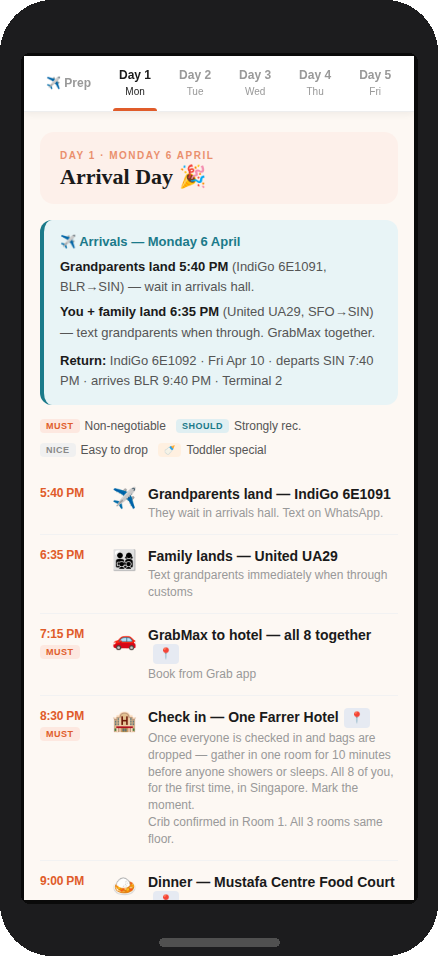
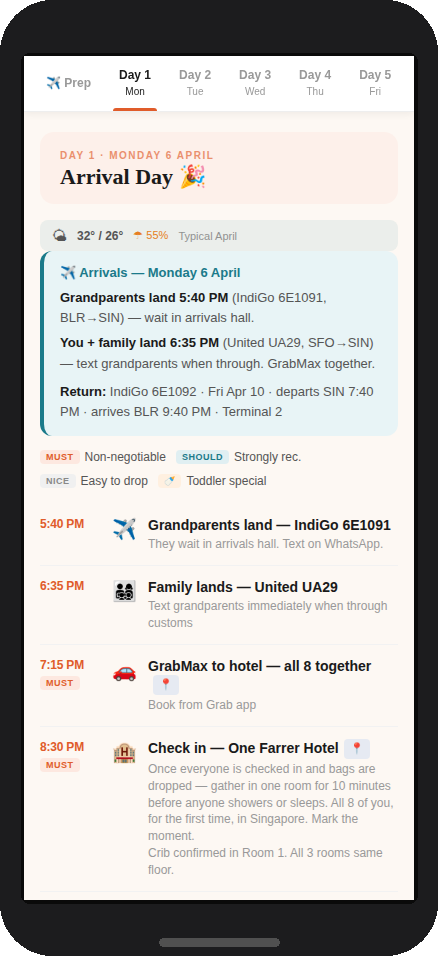
add weather data

Changed region(s): [[0.089, 0.2123, 0.9201, 0.9404], [0.089, 0.91, 0.2078, 0.9404]]

diff --git a/full.html b/full.html
@@ -324,6 +324,7 @@
 <!-- ═══ DAY 1 ═══ -->
 <div id="d1" class="section d1">
   <div class="day-hdr"><div class="day-lbl">Day 1 · Monday 6 April</div><div class="day-title">Arrival Day 🎉</div></div>
+  <div data-wx-day="d1" style="display:flex;align-items:center;gap:10px;background:rgba(27,122,138,0.08);border-radius:8px;padding:7px 12px;margin:8px 0 0;font-size:12px;color:#555;min-height:30px;"><span style="font-size:15px;">🌤</span><span style="font-size:11px;opacity:0.5;">Loading…</span></div>
   <div class="card card-teal">
     <div class="card-title">✈ Arrivals — Monday 6 April</div>
     <p><strong>Grandparents land 5:40 PM</strong> (IndiGo 6E1091, BLR→SIN) — wait in arrivals hall.</p>
@@ -347,6 +348,7 @@
 <!-- ═══ DAY 2 ═══ -->
 <div id="d2" class="section d2">
   <div class="day-hdr"><div class="day-lbl">Day 2 · Tuesday 7 April</div><div class="day-title">Little India + Kampong Glam 🛕</div></div>
+  <div data-wx-day="d2" style="display:flex;align-items:center;gap:10px;background:rgba(27,122,138,0.08);border-radius:8px;padding:7px 12px;margin:8px 0 0;font-size:12px;color:#555;min-height:30px;"><span style="font-size:15px;">🌤</span><span style="font-size:11px;opacity:0.5;">Loading…</span></div>
   <div class="veg-sticky">🌿 Vegetarian only until 1:30 PM — temple 9:45 AM + Sultan Mosque 1:30 PM</div>
   <div class="slot"><div class="slot-left"><div class="slot-time">8:00 AM</div><div class="tag tag-must">Must</div></div><div class="slot-icon">☕</div><div class="slot-body" data-dishes="tekka_breakfast"><div class="slot-title">Tekka Centre breakfast<a href="https://maps.google.com/?q=Tekka+Centre+Little+India+Singapore" target="_blank" rel="noopener" class="ml">📍</a></div><div class="slot-note">Idli, dosa, pongal, filter coffee 🌿 · 💛 <strong>Telugu moment:</strong> Ask the grandparents to name each dish in Telugu for the kids — idli, dosa, pongal. Make the 4yr old repeat it. This is their food, their expertise, let them own this moment.</div></div></div>
   <div class="slot"><div class="slot-left"><div class="slot-time">9:15 AM</div><div class="tag tag-must">Must</div></div><div class="slot-icon">🥚</div><div class="slot-body" data-dishes="kopitiam_drinks"><div class="slot-title">Kaya toast + soft eggs + Milo Dinosaur + teh halia<a href="https://maps.google.com/?q=Serangoon+Road+kopitiam+Singapore" target="_blank" rel="noopener" class="ml">📍</a></div><div class="slot-note">Serangoon Rd kopitiam 🌿 · 👶 Toddler: <strong>plain toast + soft-boiled egg only</strong> — kaya has added sugar. Ask "plain toast, no kaya" explicitly.</div></div></div>
@@ -374,6 +376,7 @@
 <!-- ═══ DAY 3 ═══ -->
 <div id="d3" class="section d3">
   <div class="day-hdr"><div class="day-lbl">Day 3 · Wednesday 8 April</div><div class="day-title">Chinatown + MOIC Split + Marina Bay 🦁</div></div>
+  <div data-wx-day="d3" style="display:flex;align-items:center;gap:10px;background:rgba(27,122,138,0.08);border-radius:8px;padding:7px 12px;margin:8px 0 0;font-size:12px;color:#555;min-height:30px;"><span style="font-size:15px;">🌤</span><span style="font-size:11px;opacity:0.5;">Loading…</span></div>
   <div class="card card-orange" style="margin:0 0 10px;"><div class="card-title">⏱ Longest day of the trip — starts at 8:30 AM, ends at 10 PM</div><p>This 13+ hour day falls on Night 2 jet lag — kids likely had a broken night. If the morning is slow, push Maxwell to 8:45 AM, you have buffer. The 5 PM cold drink stop at Marina Bay Sands is the only scheduled rest — protect it. Grandparents: feel free to sit anywhere cool and rejoin at the next slot if energy is low.</p></div>
   <div class="veg-sticky">🌿 Vegetarian only for breakfast — temples 10:00 + 10:30 AM · full menu opens after 11 AM</div>
   <div class="slot"><div class="slot-left"><div class="slot-time">8:15 AM</div></div><div class="slot-icon">🚇</div><div class="slot-body"><div class="slot-title">MRT: Farrer Park (NE8) → Chinatown (NE4)</div><div class="slot-note">Purple line · direct · 10 min</div></div></div>
@@ -427,6 +430,7 @@
 <!-- ═══ DAY 4 ═══ -->
 <div id="d4" class="section d4">
   <div class="day-hdr"><div class="day-lbl">Day 4 · Thursday 9 April</div><div class="day-title">Sentosa — Full Day 🐠🎡</div></div>
+  <div data-wx-day="d4" style="display:flex;align-items:center;gap:10px;background:rgba(27,122,138,0.08);border-radius:8px;padding:7px 12px;margin:8px 0 0;font-size:12px;color:#555;min-height:30px;"><span style="font-size:15px;">🌤</span><span style="font-size:11px;opacity:0.5;">Loading…</span></div>
   <div class="card card-green"><div class="card-title">✅ Singapore Oceanarium — open daily 10am–7pm</div><p>Completely rebuilt in 2025 — 3× larger than old S.E.A. Aquarium, 22 zones, 100,000+ marine animals. Tickets pre-booked on Klook. 1.5yr FREE (under 3). Accessible.</p></div>
   <div class="slot"><div class="slot-left"><div class="slot-time">8:30 AM</div><div class="tag tag-should">Should</div></div><div class="slot-icon">🍽</div><div class="slot-body" data-dishes="serangoon_bfast"><div class="slot-title">Breakfast — Serangoon Rd</div><div class="slot-note">Parotta + dhal or idli before heading out</div></div></div>
   <div class="slot"><div class="slot-left"><div class="slot-time">9:30 AM</div></div><div class="slot-icon">🚇</div><div class="slot-body"><div class="slot-title">MRT: Farrer Park (NE8) → HarbourFront (NE1)</div><div class="slot-note">Purple line · direct · 15 min</div></div></div>
@@ -454,6 +458,7 @@
 <!-- ═══ DAY 5 ═══ -->
 <div id="d5" class="section d5">
   <div class="day-hdr"><div class="day-lbl">Day 5 · Friday 10 April</div><div class="day-title">Cloud Forest + Flower Dome + Jewel + Departure ✈</div></div>
+  <div data-wx-day="d5" style="display:flex;align-items:center;gap:10px;background:rgba(27,122,138,0.08);border-radius:8px;padding:7px 12px;margin:8px 0 0;font-size:12px;color:#555;min-height:30px;"><span style="font-size:15px;">🌤</span><span style="font-size:11px;opacity:0.5;">Loading…</span></div>
   <div class="card card-red">
     <div class="card-title">⚠ Flight — IndiGo 6E1092 </div>
     <p>Terminal 2 · Check-in opens <strong>4:40 PM</strong> · Board <strong>6:40 PM</strong> · Departs <strong>7:40 PM</strong></p>
@@ -792,5 +797,6 @@
 
 </script>
 <button class="back-top" id="back-top" aria-label="Back to top">↑</button>
+  <script src="./weather.js"></script>
 </body>
 </html>

diff --git a/weather.js b/weather.js
@@ -1,0 +1,114 @@
+// weather.js — Singapore live weather via Open-Meteo (free, no API key)
+// Used by: index.html (current conditions), full.html + gp-en.html + gp-te.html (daily forecast)
+
+(function() {
+  const LAT = 1.3521, LON = 103.8198;
+  const API = `https://api.open-meteo.com/v1/forecast?latitude=${LAT}&longitude=${LON}` +
+    `&current=temperature_2m,relative_humidity_2m,weather_code,apparent_temperature` +
+    `&daily=temperature_2m_max,temperature_2m_min,precipitation_probability_max,weather_code` +
+    `&timezone=Asia%2FSingapore&forecast_days=16`;
+
+  // Trip day → date mapping
+  const TRIP_DATES = {
+    d1: '2026-04-06', d2: '2026-04-07', d3: '2026-04-08',
+    d4: '2026-04-09', d5: '2026-04-10'
+  };
+
+  // Typical April Singapore fallback (when date is outside 16-day forecast window)
+  const APRIL_TYPICAL = { max: 32, min: 26, rain: 55 };
+
+  // WMO code → emoji + short label
+  function wmoLabel(code) {
+    if (code === 0)            return ['☀', 'Clear'];
+    if (code <= 2)             return ['🌤', 'Mostly clear'];
+    if (code === 3)            return ['☁', 'Overcast'];
+    if (code <= 48)            return ['🌫', 'Hazy'];
+    if (code <= 55)            return ['🌦', 'Light showers'];
+    if (code <= 65)            return ['🌧', 'Rain'];
+    if (code <= 82)            return ['🌦', 'Showers'];
+    if (code <= 99)            return ['⛈', 'Thunderstorm'];
+    return ['🌡', 'Unknown'];
+  }
+
+  // ── Homepage: current conditions ──────────────────────────────────────────
+  function renderCurrent(el, data) {
+    const c = data.current;
+    const [icon, label] = wmoLabel(c.weather_code);
+    const rh = c.relative_humidity_2m;
+    el.innerHTML =
+      `<span style="font-size:18px;line-height:1;">${icon}</span>` +
+      `<span>${Math.round(c.temperature_2m)}°C</span>` +
+      `<span style="opacity:0.6;font-size:11px;">feels ${Math.round(c.apparent_temperature)}°C</span>` +
+      `<span style="opacity:0.5;font-size:10px;">·</span>` +
+      `<span style="opacity:0.7;font-size:11px;">${rh}% humidity</span>` +
+      `<span style="opacity:0.5;font-size:10px;">·</span>` +
+      `<span style="opacity:0.7;font-size:11px;">${label}</span>`;
+  }
+
+  // ── Day pages: per-day forecast bar ───────────────────────────────────────
+  function renderDay(el, data, date) {
+    const idx = data.daily.time.indexOf(date);
+    let icon, label, max, min, rain;
+
+    if (idx >= 0) {
+      // Actual forecast available
+      [icon, label] = wmoLabel(data.daily.weather_code[idx]);
+      max  = Math.round(data.daily.temperature_2m_max[idx]);
+      min  = Math.round(data.daily.temperature_2m_min[idx]);
+      rain = Math.round(data.daily.precipitation_probability_max[idx]);
+    } else {
+      // Outside forecast window — show typical April Singapore
+      icon = '🌤'; label = 'Typical April';
+      max = APRIL_TYPICAL.max; min = APRIL_TYPICAL.min; rain = APRIL_TYPICAL.rain;
+    }
+
+    const rainColor = rain >= 70 ? '#c0392b' : rain >= 40 ? '#e67e22' : '#2e7a3a';
+    el.innerHTML =
+      `<span style="font-size:15px;">${icon}</span>` +
+      `<span style="font-size:12px;font-weight:600;">${max}° / ${min}°</span>` +
+      `<span style="font-size:11px;color:${rainColor};">☂ ${rain}%</span>` +
+      `<span style="font-size:11px;opacity:0.6;">${label}</span>`;
+  }
+
+  // ── Shared fetch + dispatch ────────────────────────────────────────────────
+  function initWeather() {
+    const currentEl = document.getElementById('wx-current');
+    const dayEls    = document.querySelectorAll('[data-wx-day]');
+
+    if (!currentEl && !dayEls.length) return;
+
+    fetch(API)
+      .then(r => r.json())
+      .then(data => {
+        if (currentEl) renderCurrent(currentEl, data);
+        dayEls.forEach(el => {
+          const date = TRIP_DATES[el.dataset.wxDay];
+          if (date) renderDay(el, data, date);
+        });
+      })
+      .catch(() => {
+        // Silent fail — show typical April conditions as fallback
+        if (currentEl) currentEl.innerHTML =
+          `<span style="font-size:18px;line-height:1;">🌤</span>` +
+          `<span>32°C</span>` +
+          `<span style="opacity:0.6;font-size:11px;">feels 36°C</span>` +
+          `<span style="opacity:0.5;font-size:10px;">·</span>` +
+          `<span style="opacity:0.7;font-size:11px;">85% humidity</span>` +
+          `<span style="opacity:0.5;font-size:10px;">·</span>` +
+          `<span style="opacity:0.7;font-size:11px;">Typical April</span>`;
+        dayEls.forEach(el => {
+          el.innerHTML =
+            `<span style="font-size:15px;">🌤</span>` +
+            `<span style="font-size:12px;font-weight:600;">32° / 26°</span>` +
+            `<span style="font-size:11px;color:#e67e22;">☂ 55%</span>` +
+            `<span style="font-size:11px;opacity:0.6;">Typical April</span>`;
+        });
+      });
+  }
+
+  if (document.readyState === 'loading') {
+    document.addEventListener('DOMContentLoaded', initWeather);
+  } else {
+    initWeather();
+  }
+})();

diff --git a/gp-te.html b/gp-te.html
@@ -310,6 +310,7 @@
 <div id="d1" class="section d1">
   <div class="day-hdr">
     <div class="day-lbl">రోజు 1 · Day 1</div>
+  <div data-wx-day="d1" style="display:flex;align-items:center;gap:10px;background:rgba(27,122,138,0.08);border-radius:8px;padding:7px 12px;margin:8px 0 0;font-size:12px;color:#555;min-height:30px;"><span style="font-size:15px;">🌤</span><span style="font-size:11px;opacity:0.5;">Loading…</span></div>
     <div class="day-title">రాక — స్వాగతం సింగపూర్! 🎉</div>
     <div class="day-date">సోమవారం, ఏప్రిల్ 6 · Monday 6 April</div>
   </div>
@@ -383,6 +384,7 @@
 <div id="d2" class="section d2">
   <div class="day-hdr">
     <div class="day-lbl">రోజు 2 · Day 2</div>
+  <div data-wx-day="d2" style="display:flex;align-items:center;gap:10px;background:rgba(27,122,138,0.08);border-radius:8px;padding:7px 12px;margin:8px 0 0;font-size:12px;color:#555;min-height:30px;"><span style="font-size:15px;">🌤</span><span style="font-size:11px;opacity:0.5;">Loading…</span></div>
     <div class="day-title">లిటిల్ ఇండియా + కంపాంగ్ గ్లామ్ 🛕</div>
     <div class="day-date">మంగళవారం, ఏప్రిల్ 7 · Tuesday 7 April</div>
   </div>
@@ -500,6 +502,7 @@
 <div id="d3" class="section d3">
   <div class="day-hdr">
     <div class="day-lbl">రోజు 3 · Day 3</div>
+  <div data-wx-day="d3" style="display:flex;align-items:center;gap:10px;background:rgba(27,122,138,0.08);border-radius:8px;padding:7px 12px;margin:8px 0 0;font-size:12px;color:#555;min-height:30px;"><span style="font-size:15px;">🌤</span><span style="font-size:11px;opacity:0.5;">Loading…</span></div>
     <div class="day-title">Chinatown + Marina Bay 🦁✨</div>
     <div class="day-date">బుధవారం, ఏప్రిల్ 8 · Wednesday 8 April</div>
   </div>
@@ -637,6 +640,7 @@
 <div id="d4" class="section d4">
   <div class="day-hdr">
     <div class="day-lbl">రోజు 4 · Day 4</div>
+  <div data-wx-day="d4" style="display:flex;align-items:center;gap:10px;background:rgba(27,122,138,0.08);border-radius:8px;padding:7px 12px;margin:8px 0 0;font-size:12px;color:#555;min-height:30px;"><span style="font-size:15px;">🌤</span><span style="font-size:11px;opacity:0.5;">Loading…</span></div>
     <div class="day-title">Sentosa Island — రోజంతా సాహసయాత్ర 🐠🎡</div>
     <div class="day-date">గురువారం, ఏప్రిల్ 9 · Thursday 9 April</div>
   </div>
@@ -765,6 +769,7 @@
 <div id="d5" class="section d5">
   <div class="day-hdr">
     <div class="day-lbl">రోజు 5 · Day 5</div>
+  <div data-wx-day="d5" style="display:flex;align-items:center;gap:10px;background:rgba(27,122,138,0.08);border-radius:8px;padding:7px 12px;margin:8px 0 0;font-size:12px;color:#555;min-height:30px;"><span style="font-size:15px;">🌤</span><span style="font-size:11px;opacity:0.5;">Loading…</span></div>
     <div class="day-title">చివరి ఉదయం + Jewel + తిరుగు ప్రయాణం ✈</div>
     <div class="day-date">శుక్రవారం, ఏప్రిల్ 10 · Friday 10 April</div>
   </div>
@@ -1171,5 +1176,6 @@
 
 </script>
 <button class="back-top" id="back-top" aria-label="Back to top">↑</button>
+  <script src="./weather.js"></script>
 </body>
 </html>

diff --git a/gp-en.html b/gp-en.html
@@ -561,6 +561,7 @@
     <div class="day-header">
       <div class="day-label">Day 1 · Monday 6 April</div>
       <div class="day-title">Arrival — Welcome to Singapore! 🎉</div>
+  <div data-wx-day="d1" style="display:flex;align-items:center;gap:10px;background:rgba(27,122,138,0.08);border-radius:8px;padding:7px 12px;margin:8px 0 0;font-size:12px;color:#555;min-height:30px;"><span style="font-size:15px;">🌤</span><span style="font-size:11px;opacity:0.5;">Loading…</span></div>
     </div>
 
     <div class="card card-teal">
@@ -596,6 +597,7 @@
     <div class="day-header">
       <div class="day-label">Day 2 · Tuesday 7 April</div>
       <div class="day-title">Little India + Kampong Glam 🛕</div>
+  <div data-wx-day="d2" style="display:flex;align-items:center;gap:10px;background:rgba(27,122,138,0.08);border-radius:8px;padding:7px 12px;margin:8px 0 0;font-size:12px;color:#555;min-height:30px;"><span style="font-size:15px;">🌤</span><span style="font-size:11px;opacity:0.5;">Loading…</span></div>
     </div>
 
     <div class="veg-sticky">🌿 Vegetarian only until 1:30 PM — temple in the morning, Sultan Mosque at 1:30 PM</div>
@@ -634,6 +636,7 @@
     <div class="day-header">
       <div class="day-label">Day 3 · Wednesday 8 April</div>
       <div class="day-title">Chinatown + Marina Bay 🦁✨</div>
+  <div data-wx-day="d3" style="display:flex;align-items:center;gap:10px;background:rgba(27,122,138,0.08);border-radius:8px;padding:7px 12px;margin:8px 0 0;font-size:12px;color:#555;min-height:30px;"><span style="font-size:15px;">🌤</span><span style="font-size:11px;opacity:0.5;">Loading…</span></div>
     </div>
 
     <div class="veg-sticky">🌿 Vegetarian only for breakfast — temples 10:00 + 10:30 AM · full menu opens after 11 AM</div>
@@ -676,6 +679,7 @@
     <div class="day-header">
       <div class="day-label">Day 4 · Thursday 9 April</div>
       <div class="day-title">Sentosa Island — Full Day 🐠🎡</div>
+  <div data-wx-day="d4" style="display:flex;align-items:center;gap:10px;background:rgba(27,122,138,0.08);border-radius:8px;padding:7px 12px;margin:8px 0 0;font-size:12px;color:#555;min-height:30px;"><span style="font-size:15px;">🌤</span><span style="font-size:11px;opacity:0.5;">Loading…</span></div>
     </div>
 
     <div class="card card-green">
@@ -719,6 +723,7 @@
     <div class="day-header">
       <div class="day-label">Day 5 · Friday 10 April</div>
       <div class="day-title">Last Morning + Jewel + Departure ✈</div>
+  <div data-wx-day="d5" style="display:flex;align-items:center;gap:10px;background:rgba(27,122,138,0.08);border-radius:8px;padding:7px 12px;margin:8px 0 0;font-size:12px;color:#555;min-height:30px;"><span style="font-size:15px;">🌤</span><span style="font-size:11px;opacity:0.5;">Loading…</span></div>
     </div>
 
     <div class="card card-red">
@@ -1040,5 +1045,6 @@
 
 </script>
 <button class="back-top" id="back-top" aria-label="Back to top">↑</button>
+  <script src="./weather.js"></script>
 </body>
 </html>

diff --git a/index.html b/index.html
@@ -74,15 +74,13 @@ h1 { font-family: 'Playfair Display', serif; font-size: 28px; line-height: 1.2; 
     transition:opacity 0.2s, transform 0.2s; z-index:999; white-space:nowrap; font-family:'DM Sans',sans-serif; }
   .toast.show { opacity:1; transform:translateX(-50%) translateY(0); }
 
-  .meta-divider { font-size: 10px; font-weight: 700; letter-spacing: 0.8px; text-transform: uppercase; color: #aaa; text-align: center; padding: 16px 0 10px; }
-  .meta-cards { display: grid; grid-template-columns: 1fr 1fr; gap: 0; }
-  .meta-card { background: white; border-radius: 0; padding: 10px 14px; text-decoration: none; border: 0.5px solid #eee; display: flex; flex-direction: column; justify-content: center; }
-  .meta-card:first-child { border-radius: 0 0 0 12px; border-right: none; }
-  .meta-card:last-child { border-radius: 0 0 12px 0; }
-  .meta-card:active { background: #f9f9f9; }
+  .meta-divider { font-size: 10px; font-weight: 700; letter-spacing: 0.8px; text-transform: uppercase; color: #aaa; text-align: center; padding: 16px 0 8px; }
+  .meta-cards { display: grid; grid-template-columns: 1fr 1fr; gap: 8px; }
+  .meta-card { background: #1A4A6B; border-radius: 12px; padding: 12px 14px; text-decoration: none; display: flex; flex-direction: column; justify-content: center; }
+  .meta-card:active { opacity: 0.85; }
   .meta-icon { display: none; }
-  .meta-title { font-size: 13px; font-weight: 700; color: #1A4A6B; }
-  .meta-sub { font-size: 11px; color: #999; margin-top: 2px; }
+  .meta-title { font-size: 13px; font-weight: 700; color: white; }
+  .meta-sub { font-size: 11px; color: rgba(255,255,255,0.65); margin-top: 3px; }
   .meta-arrow { display: none; }
 </style>
 </head>
@@ -98,7 +96,7 @@ h1 { font-family: 'Playfair Display', serif; font-size: 28px; line-height: 1.2; 
     <div class="cd-unit"><div class="cd-num" id="cd-m">--</div><div class="cd-label">Mins</div></div>
   </div>
   <p class="cd-msg" id="cd-msg">Until we land in Singapore ✈</p>
-
+  <div id="wx-current" style="display:flex;align-items:center;gap:8px;justify-content:center;margin-top:8px;color:rgba(255,255,255,0.85);font-size:12px;min-height:22px;flex-wrap:wrap;"></div>
   <button class="share-btn" onclick="shareLink('https://hrajendra.github.io/sg-trip-2026/','Singapore Family Trip 2026')">📤 Share</button></div>
 <div class="cards">
   <a href="full.html" class="card card-full">
@@ -253,5 +251,6 @@ h1 { font-family: 'Playfair Display', serif; font-size: 28px; line-height: 1.2; 
     setInterval(tick, 1000);
   })();
 </script>
+  <script src="./weather.js"></script>
 </body>
 </html>

diff --git a/sw.js b/sw.js
@@ -8,6 +8,7 @@ const ASSETS = [
   './build.html',
   './dishes.js',
   './prompt.js',
+  './weather.js',
   './guide.html',
   './manifest.json',
   './icon-192.png',

diff --git a/README.md b/README.md
@@ -19,8 +19,8 @@ The app was entirely designed, written, and iterated with [Claude](https://claud
 <table>
   <tr>
     <td align="center"><img src="docs/ss_index_framed.png" width="240"><br><sub>Home · countdown + share</sub></td>
-    <td align="center"><img src="docs/ss_full_framed.png" width="240"><br><sub>Full itinerary · Day 1 arrival</sub></td>
-    <td align="center"><img src="docs/ss_gpen_framed.png" width="240"><br><sub>Grandparent guide (English) · Prep tab</sub></td>
+    <td align="center"><img src="docs/ss_full_framed.png" width="240"><br><sub>Full itinerary · Day 1 + weather</sub></td>
+    <td align="center"><img src="docs/ss_gpen_framed.png" width="240"><br><sub>Grandparent guide · Prep tab</sub></td>
   </tr>
   <tr>
     <td align="center"><img src="docs/ss_gpte_framed.png" width="240"><br><sub>Grandparent guide (Telugu) · Day 2</sub></td>
